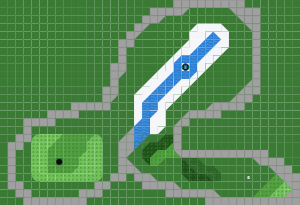
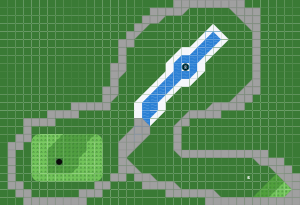
buff: BH/repulsor impulse 0.75->0.9 (+20%)

Changed region(s): [[0.42, 0.4098, 0.72, 0.9073], [0.6, 0.0878, 0.78, 0.3512], [0.42, 0.2927, 0.57, 0.5268]]

diff --git a/public/index.html b/public/index.html
@@ -343,7 +343,7 @@
         <div class="debug-section-title">Black Hole</div>
         <label
           >Impulse
-          <span id="val-bh-impulse">0.75</span>
+          <span id="val-bh-impulse">0.9</span>
           <input type="number" id="edit-bh-impulse" class="debug-edit" step="0.01" />
           <input
             type="range"
@@ -351,7 +351,7 @@
             min="0.1"
             max="2.0"
             step="0.01"
-            value="0.75"
+            value="0.9"
           />
         </label>
         <label
@@ -373,7 +373,7 @@
         <div class="debug-section-title">Repulsor</div>
         <label
           >Impulse
-          <span id="val-rep-impulse">0.75</span>
+          <span id="val-rep-impulse">0.9</span>
           <input type="number" id="edit-rep-impulse" class="debug-edit" step="0.01" />
           <input
             type="range"
@@ -381,7 +381,7 @@
             min="0.1"
             max="2.0"
             step="0.01"
-            value="0.75"
+            value="0.9"
           />
         </label>
         <label

diff --git a/public/js/physics.js b/public/js/physics.js
@@ -202,9 +202,9 @@ const Physics = (function () {
   let BALL_FRICTION = 0.3; // ball-to-ball tangential friction (Coulomb μ)
   let BOUNCY_RESTITUTION = 1.5;
   let STICKY_RESTITUTION = 0.1;
-  let BH_IMPULSE_FACTOR = 0.75;
+  let BH_IMPULSE_FACTOR = 0.9;
   let BH_RADIUS_TILES = 10;
-  let REP_IMPULSE_FACTOR = 0.75;
+  let REP_IMPULSE_FACTOR = 0.9;
   let REP_RADIUS_TILES = 10;
   let SWAP_RADIUS_TILES = 8;
 